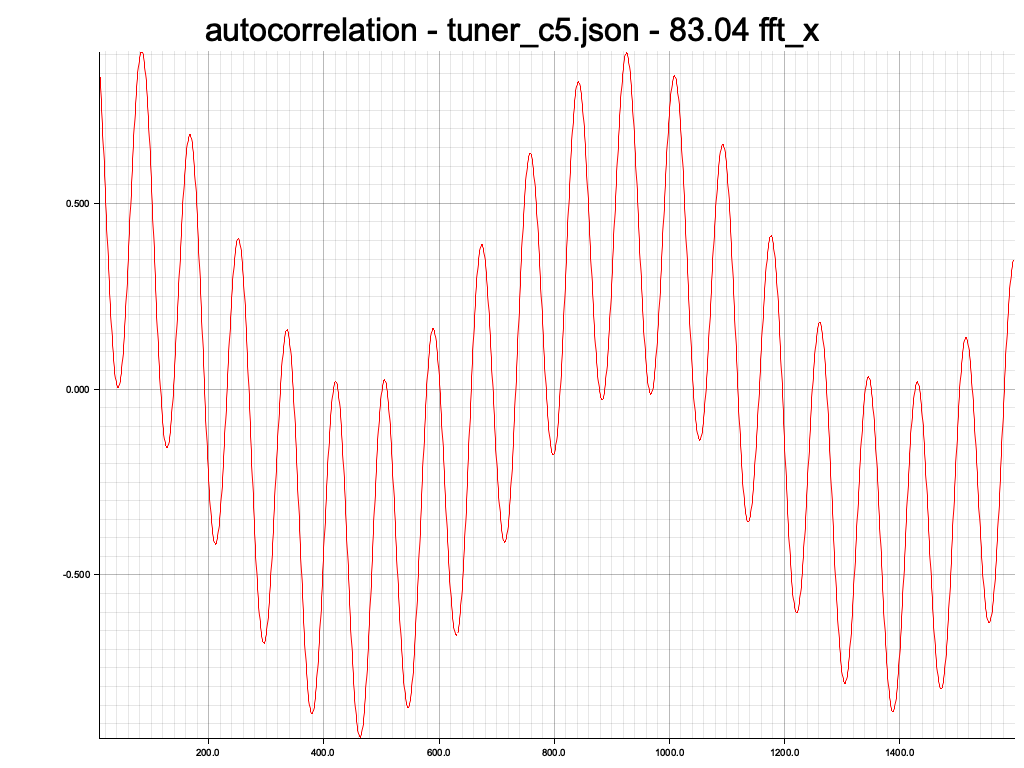
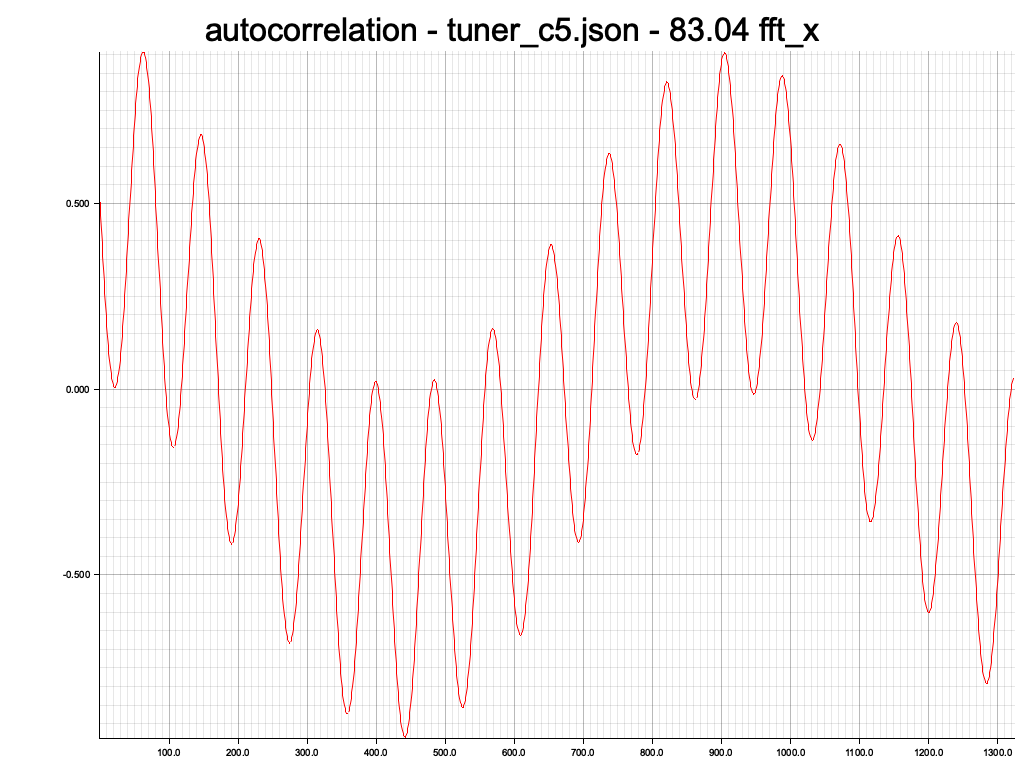
new plots

diff --git a/examples/spectrum_plot.rs b/examples/spectrum_plot.rs
@@ -9,7 +9,13 @@ use plotters::prelude::*;
 
 const TEST_FILE_SAMPLE_RATE: f64 = 44000.;
 
-fn plot<D, I>(detector: &D, signal: I, plot_name: &str, fft_x: f64) -> anyhow::Result<()>
+fn plot<D, I>(
+    detector: &D,
+    signal: I,
+    fft_range: (usize, usize),
+    plot_name: &str,
+    fft_x: f64,
+) -> anyhow::Result<()>
 where
     I: IntoIterator,
     <I as IntoIterator>::Item: std::borrow::Borrow<f64>,
@@ -23,12 +29,8 @@ where
     );
     let signal_iter = signal.into_iter();
 
-    let fft_space = FftSpace::new(signal_iter.size_hint().1.unwrap());
-    let fft_range = detector.relevant_fft_range(fft_space.len(), TEST_FILE_SAMPLE_RATE);
     let y_vals: Vec<f64> = detector.unscaled_spectrum(signal_iter, fft_range);
-    let x_vals = (fft_range.0..fft_range.1)
-        .map(|i| i as f64)
-        .collect::<Vec<_>>();
+    let x_vals: Vec<f64> = (0..y_vals.len()).map(|x| x as f64).collect();
     assert_eq!(
         x_vals.len(),
         y_vals.len(),
@@ -73,7 +75,7 @@ fn plot_detector_for_files<D: FrequencyDetector + FrequencyDetectorTest>(
             .detect_unscaled_freq_with_space(&test_signal, fft_range, &mut fft_space)
             .map(|p| p.x)
             .ok_or(anyhow::anyhow!(""))?;
-        plot(&detector, test_signal, test_file, fft_point_x)?;
+        plot(&detector, test_signal, fft_range, test_file, fft_point_x)?;
     }
     Ok(())
 }
@@ -93,7 +95,7 @@ fn plot_detector_for_freq<D: FrequencyDetector + FrequencyDetectorTest>(
         .ok_or(anyhow::anyhow!(
             "Failed to detect unscaled frequency with space"
         ))?;
-    plot(&detector, test_signal, "A440", fft_point_x)?;
+    plot(&detector, test_signal, fft_range, "A440", fft_point_x)?;
     Ok(())
 }
 fn main() -> anyhow::Result<()> {
